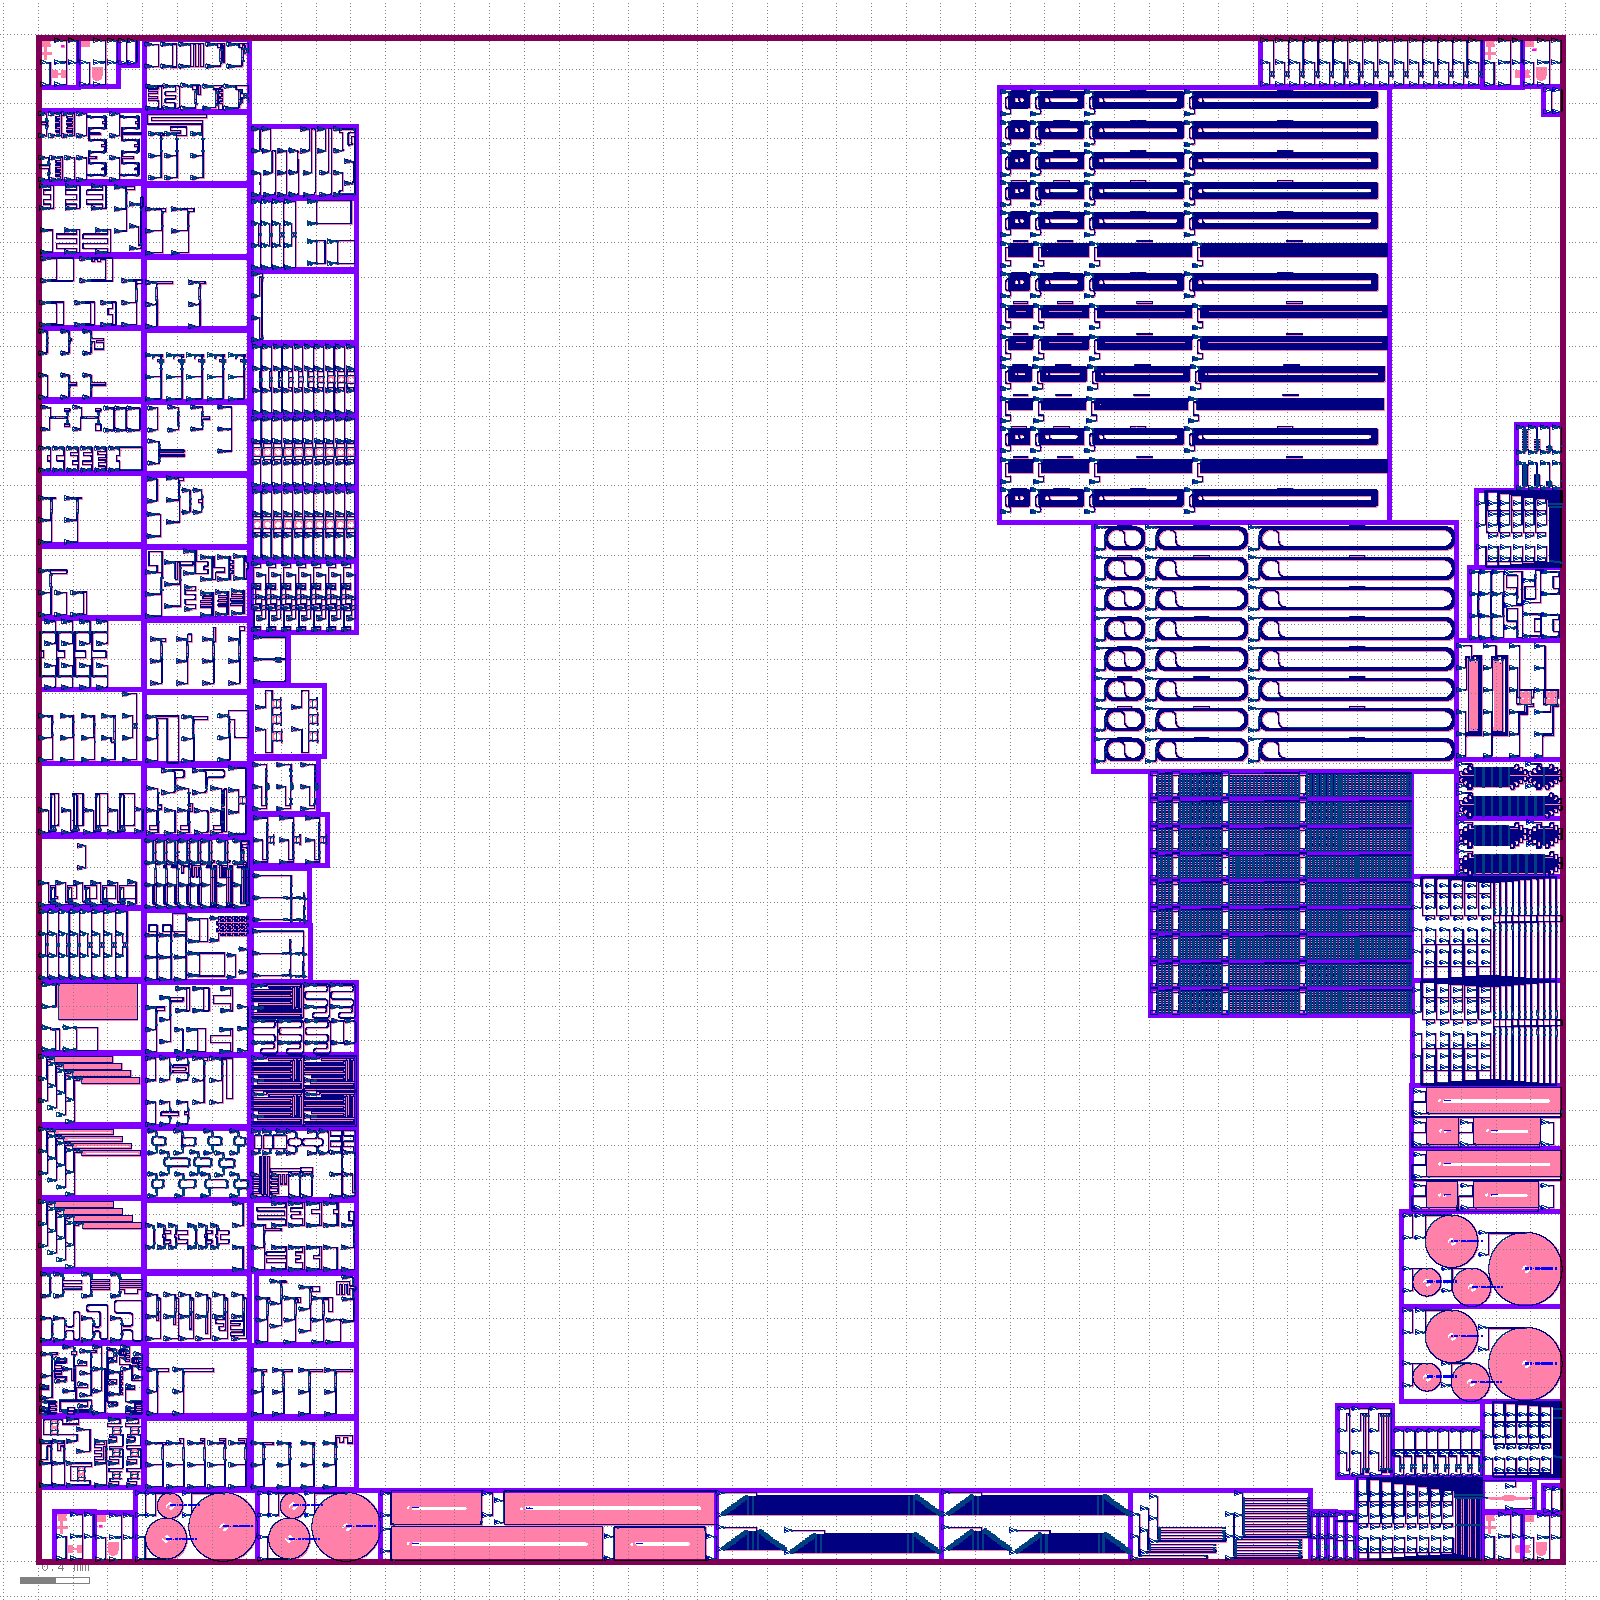
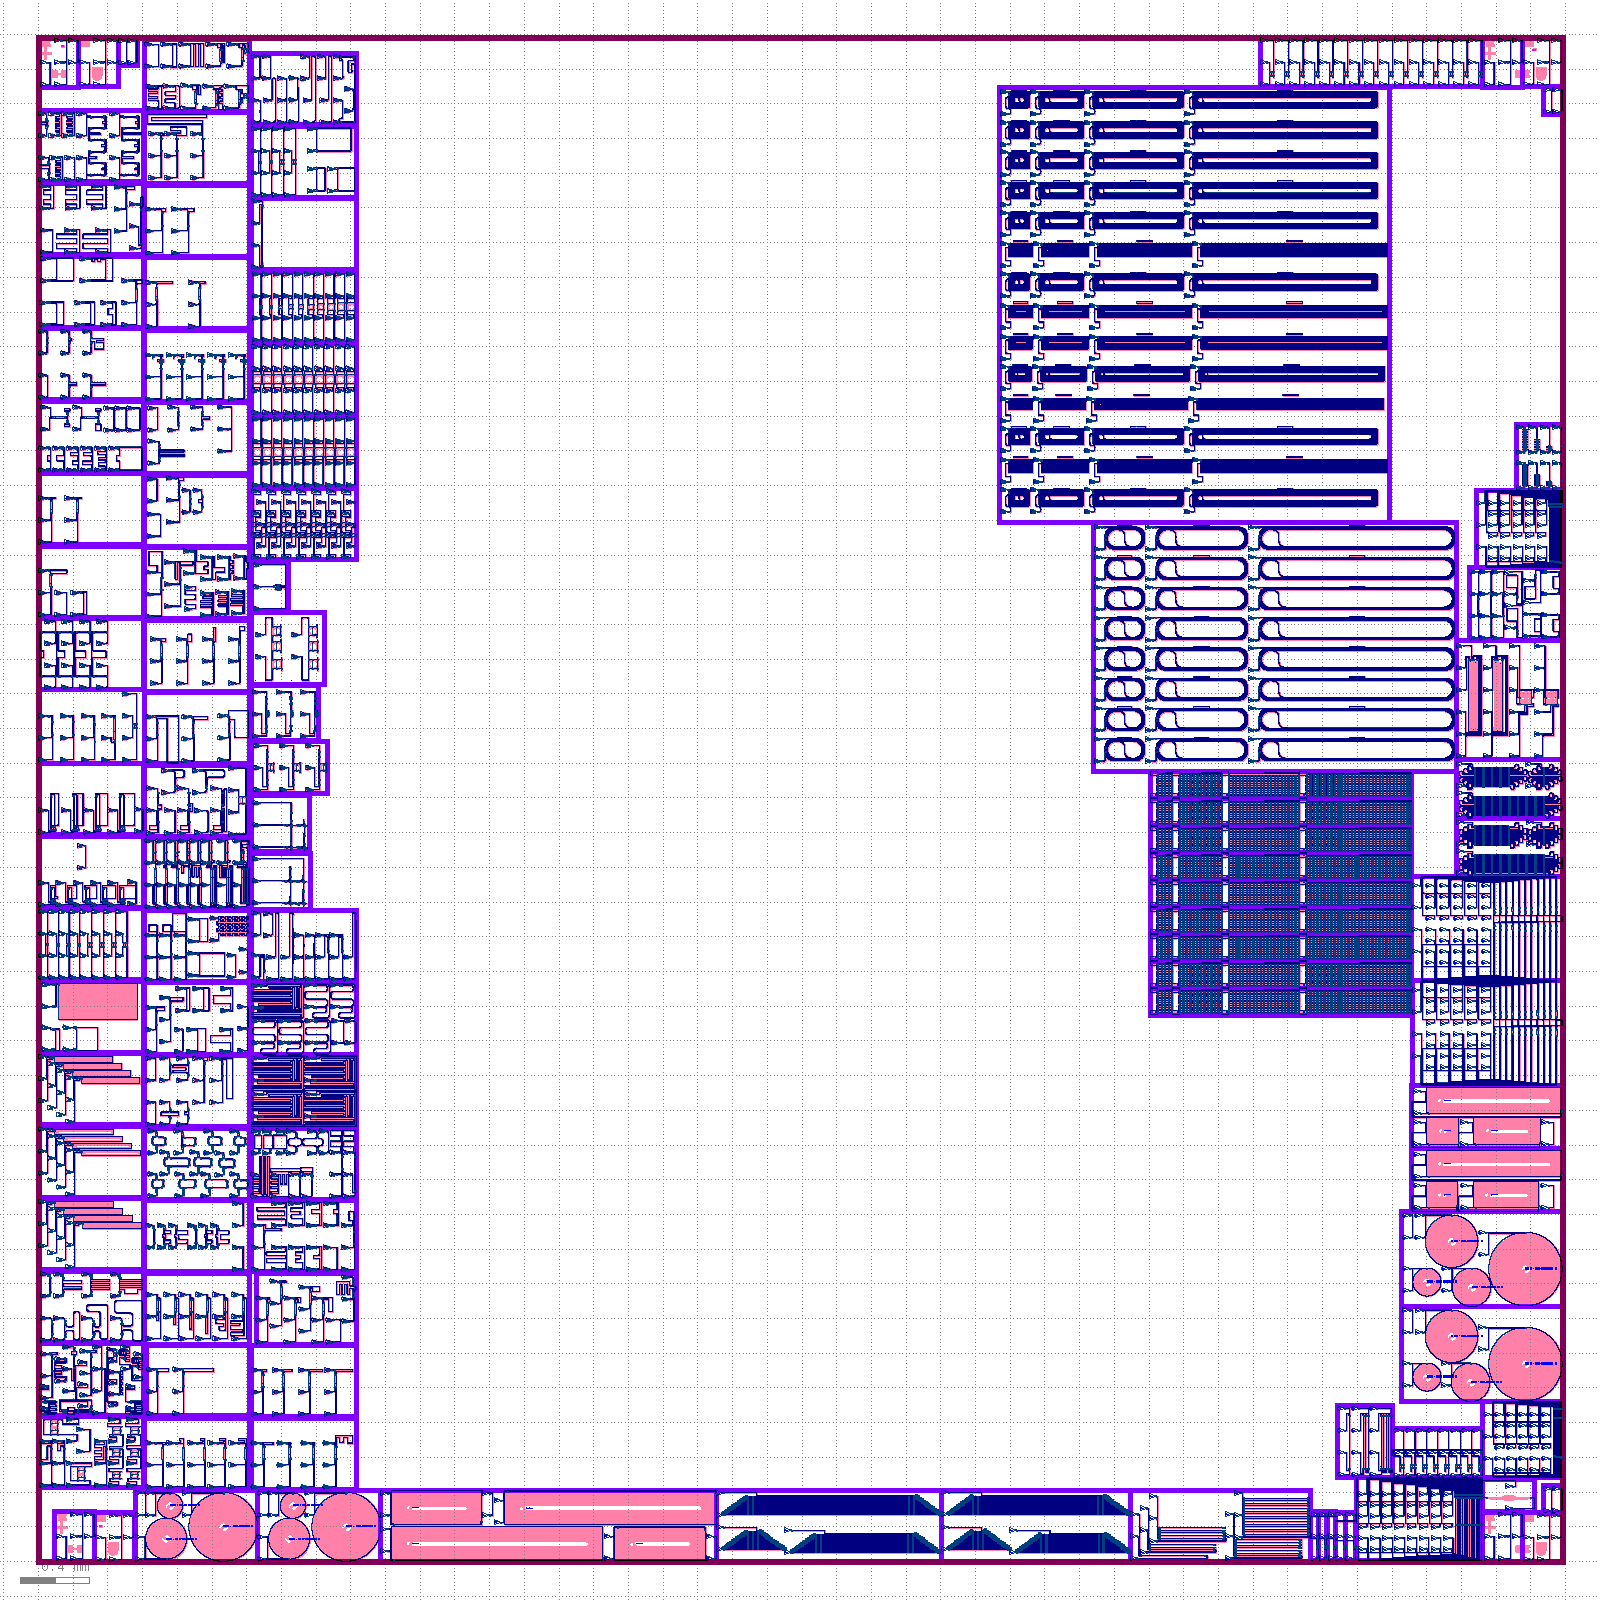
Aggregation layout: https://github.com/SiEPIC/openEBL-2026-05/actions/runs/25663957527/artifacts/6915773498

Changed region(s): [[0.1562, 0.0312, 0.25, 0.625]]

diff --git a/README.md b/README.md
@@ -91,5 +91,5 @@ Will be added here.
 
 Click on the following link to download the EBeam.oas merged layout file:
 <!-- start-link -->
-https://github.com/SiEPIC/openEBL-2026-05/actions/runs/25663402717/artifacts/6915544050
+https://github.com/SiEPIC/openEBL-2026-05/actions/runs/25663957527/artifacts/6915773498
 <!-- end-link -->